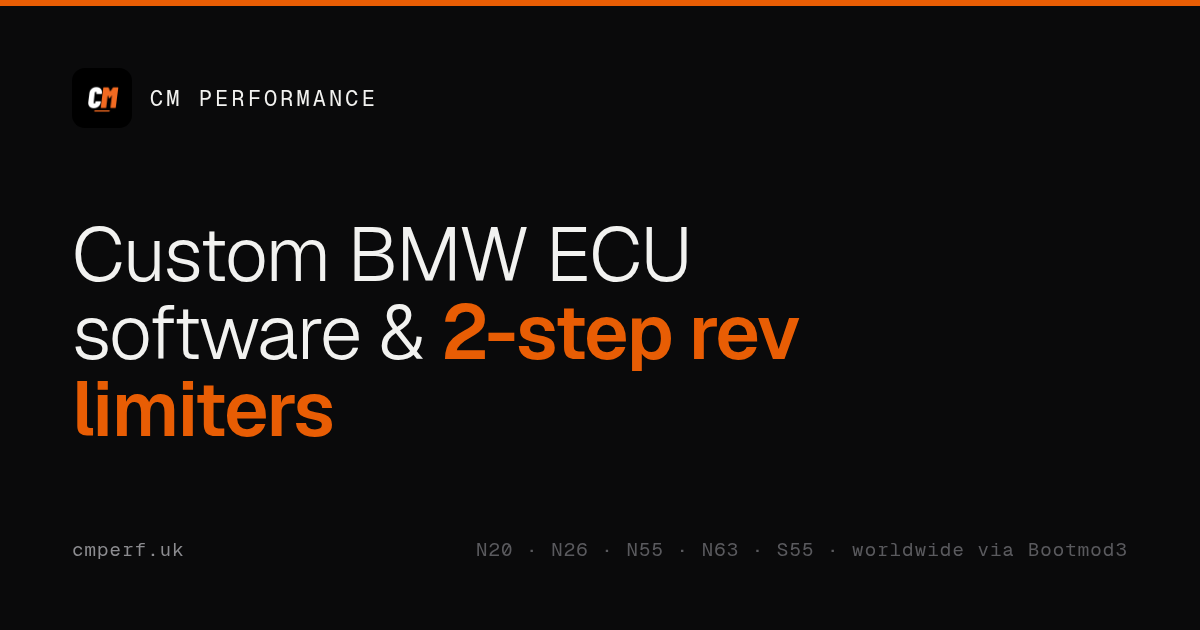
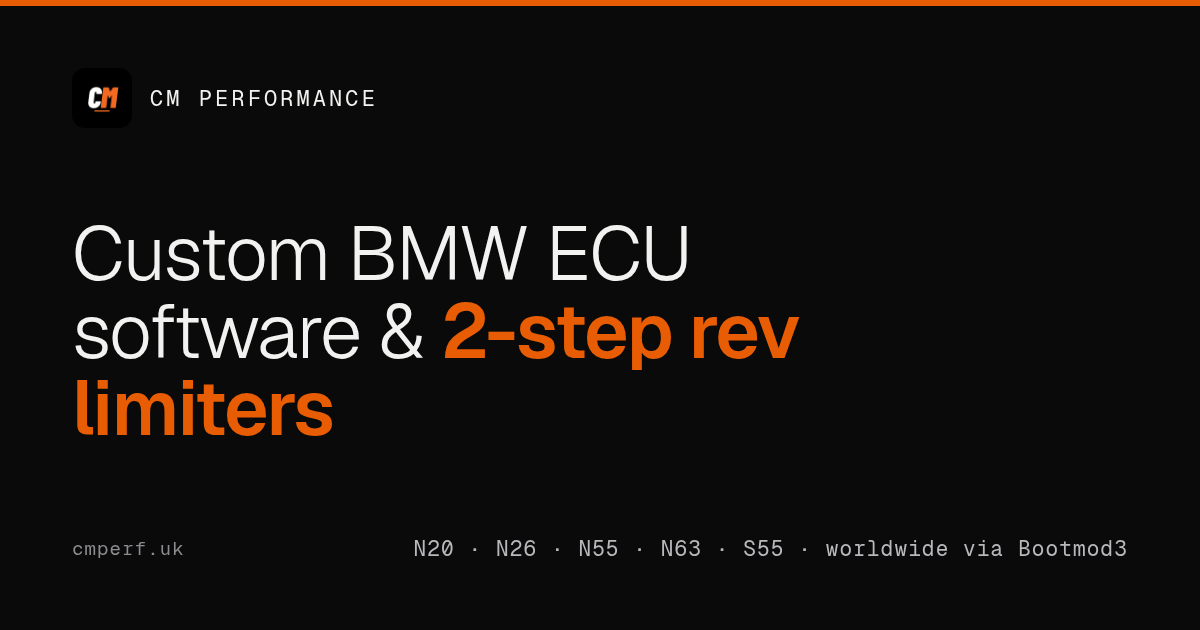
Marketing round (Astra): lead with the offer, proof via Instagram, convert
- Hero: buy-relevant spec line (engines, Bootmod3, from $200) and CTAs
  'Check my BMW' + 'Watch on Instagram'. Headline kept as chosen.
- Products: second card is now Custom ECU Software (real revenue), not the
  unfinished Performance Tracker (demoted to a small in-development note).
- Proof band linking to Instagram @cm.perf (real customer/proof videos),
  plus @cm.perf in contact and sameAs in JSON-LD.
- FAQ: added keep-tune/revert-to-stock and who-flashes-it/what-if answers;
  schema synced.
- Contact: 'Check compatibility and get a quote' with model+year required,
  Bootmod3-status select, softer brief, FormSubmit _next to a new
  thanks.html confirmation, 'reply within one business day'.
- Copy cleanups (no 'whole stack', no 'problem no one else has solved',
  B-series 'in development'). Title/description reworked around
  '2-step launch control & ECU tuning'. og image: Bootmod3 line enlarged.
- SEO migration: gallery + flink canonical/og/sitemap moved off the old
  github.io domain to cmperf.uk.

diff --git a/index.html b/index.html
@@ -3,8 +3,8 @@
 <head>
 <meta charset="utf-8" />
 <meta name="viewport" content="width=device-width, initial-scale=1.0" />
-<title>BMW ECU Development & 2-Step Rev Limiter | CM Performance</title>
-<meta name="description" content="Custom BMW ECU software and the 2-step secondary rev limiter: variable-RPM launch control on your M1/M2 buttons for N20, N26, N55, N63 and S55. Delivered worldwide through Bootmod3. UK-based BMW engineering." />
+<title>BMW 2-Step Launch Control & ECU Tuning | CM Performance</title>
+<meta name="description" content="BMW 2-step launch control and custom ECU software for N20, N26, N55, N63 and S55. Set your launch RPM with M1/M2 and adjust it on the move. Delivered worldwide via Bootmod3. Check compatibility and pricing." />
 <meta name="robots" content="index, follow" />
 <meta name="author" content="CM Performance" />
 <link rel="canonical" href="https://cmperf.uk/" />
@@ -14,15 +14,15 @@
 <link rel="apple-touch-icon" href="/apple-touch-icon.png" />
 <meta property="og:type" content="website" />
 <meta property="og:site_name" content="CM Performance" />
-<meta property="og:title" content="BMW ECU Development & 2-Step Rev Limiter | CM Performance" />
-<meta property="og:description" content="Custom BMW ECU software and the 2-step secondary rev limiter, for N20, N26, N55, N63 and S55. Delivered worldwide through Bootmod3." />
+<meta property="og:title" content="BMW 2-Step Launch Control & ECU Tuning | CM Performance" />
+<meta property="og:description" content="BMW 2-step launch control and custom ECU software for N20, N26, N55, N63 and S55. Delivered worldwide via Bootmod3." />
 <meta property="og:url" content="https://cmperf.uk/" />
 <meta property="og:image" content="https://cmperf.uk/og-cmperf.png" />
 <meta property="og:image:width" content="1200" />
 <meta property="og:image:height" content="630" />
 <meta name="twitter:card" content="summary_large_image" />
-<meta name="twitter:title" content="BMW ECU Development & 2-Step Rev Limiter | CM Performance" />
-<meta name="twitter:description" content="Custom BMW ECU software and the 2-step secondary rev limiter, delivered worldwide through Bootmod3." />
+<meta name="twitter:title" content="BMW 2-Step Launch Control & ECU Tuning | CM Performance" />
+<meta name="twitter:description" content="BMW 2-step launch control and custom ECU software, delivered worldwide via Bootmod3." />
 <meta name="twitter:image" content="https://cmperf.uk/og-cmperf.png" />
 <link rel="preconnect" href="https://fonts.googleapis.com" />
 <link rel="preconnect" href="https://fonts.gstatic.com" crossorigin />
@@ -113,6 +113,10 @@ section{padding:62px 0;border-bottom:1px solid var(--line)}
 .local-strip strong{color:var(--text);font-weight:400}
 .local-strip .btn{flex:none}
 
+.proof{display:flex;align-items:center;justify-content:space-between;gap:28px}
+.proof p{color:var(--dim);font-size:15px;max-width:58ch;margin-top:10px}
+.proof .btn{flex:none}
+@media (max-width:820px){.proof{flex-direction:column;align-items:flex-start;gap:18px}}
 .caps{border-top:1px solid var(--line)}
 .cap{display:grid;grid-template-columns:34px 220px 1fr;gap:24px;align-items:start;padding:22px 0;border-bottom:1px solid var(--line-2)}
 .cap .no{font-family:var(--mono);font-size:12px;color:var(--faint);padding-top:3px}
@@ -139,7 +143,8 @@ section{padding:62px 0;border-bottom:1px solid var(--line)}
 .cform label{display:flex;flex-direction:column;gap:7px;font-family:var(--mono);font-size:11px;letter-spacing:.1em;text-transform:uppercase;color:var(--dim)}
 .cform .opt{color:var(--faint);text-transform:none;letter-spacing:.02em}
 .cform .req{color:var(--accent)}
-.cform input,.cform textarea{font-family:var(--sans);font-size:16px;font-weight:300;color:var(--text);background:#0a0a0b;border:1px solid var(--line);border-radius:4px;padding:11px 12px;width:100%;resize:vertical}
+.cform input,.cform textarea,.cform select{font-family:var(--sans);font-size:16px;font-weight:300;color:var(--text);background:#0a0a0b;border:1px solid var(--line);border-radius:4px;padding:11px 12px;width:100%;resize:vertical}
+.cform select:focus{outline:none;border-color:var(--accent)}
 .cform input::placeholder,.cform textarea::placeholder{color:var(--faint)}
 .cform input:focus,.cform textarea:focus{outline:none;border-color:var(--accent)}
 .cform button{align-self:flex-start;cursor:pointer}
@@ -180,14 +185,14 @@ footer .copy{font-family:var(--mono);font-size:11px;color:var(--faint);width:100
 </style>
 <script type="application/ld+json">
 {"@context":"https://schema.org","@graph":[
-{"@type":"Organization","@id":"https://cmperf.uk/#org","name":"CM Performance","url":"https://cmperf.uk/","email":"contact@cmperf.uk","logo":"https://cmperf.uk/favicon-192.png","image":"https://cmperf.uk/og-cmperf.png","description":"UK-based BMW engineering: custom ECU software, the 2-step secondary rev limiter, diagnostics, retrofit and coding, and product development.","areaServed":"Worldwide","address":{"@type":"PostalAddress","addressCountry":"GB"}},
+{"@type":"Organization","@id":"https://cmperf.uk/#org","name":"CM Performance","url":"https://cmperf.uk/","email":"contact@cmperf.uk","logo":"https://cmperf.uk/favicon-192.png","image":"https://cmperf.uk/og-cmperf.png","description":"UK-based BMW engineering: custom ECU software, the 2-step secondary rev limiter, diagnostics, retrofit and coding, and product development.","areaServed":"Worldwide","address":{"@type":"PostalAddress","addressCountry":"GB"},"sameAs":["https://www.instagram.com/cm.perf/"]},
 {"@type":"WebSite","@id":"https://cmperf.uk/#site","url":"https://cmperf.uk/","name":"CM Performance","publisher":{"@id":"https://cmperf.uk/#org"}},
 {"@type":"Service","name":"BMW 2-Step Secondary Rev Limiter","serviceType":"Custom ECU software / BMW tuning","provider":{"@id":"https://cmperf.uk/#org"},"areaServed":"Worldwide","description":"Variable-RPM launch control on the M1/M2 buttons for BMW N20, N26, N55, N63 and S55, triggered by brake plus throttle. Delivered worldwide through Bootmod3.","offers":{"@type":"Offer","price":"200","priceCurrency":"USD","availability":"https://schema.org/InStock"}},
 {"@type":"FAQPage","mainEntity":[
 {"@type":"Question","name":"What is a 2-step secondary rev limiter?","acceptedAnswer":{"@type":"Answer","text":"A launch-control rev limit on your M1/M2 buttons. Hold the brake and throttle to hold a set RPM and build boost, then launch. It sits below your main redline as a secondary limit."}},
 {"@type":"Question","name":"Which BMW engines do you support?","acceptedAnswer":{"@type":"Answer","text":"N20, N26, N55, N63 and S55 are live now. B-series engines are in active development. If your engine is not listed, ask us."}},
 {"@type":"Question","name":"How is the 2-step delivered?","acceptedAnswer":{"@type":"Answer","text":"Worldwide through Bootmod3. Find us in the Bootmod3 tuner directory, or send an enquiry and we flash a map to your account. No shipping and no workshop visit."}},
-{"@type":"Question","name":"What do I need for it?","acceptedAnswer":{"@type":"Answer","text":"A Bootmod3 licence for your car and the usual flash hardware. It works with factory or aftermarket M-button wheels, using stock pedals only."}},
+{"@type":"Question","name":"What do I need for it?","acceptedAnswer":{"@type":"Answer","text":"A Bootmod3 licence for your car and the usual flash hardware. It works with factory or aftermarket M-button wheels, using stock pedals only."}},{"@type":"Question","name":"Can I keep my current tune, and go back to stock?","acceptedAnswer":{"@type":"Answer","text":"Bootmod3 keeps your stock map, so you can switch back any time. Whether we build on your current tune depends on your car and software."}},{"@type":"Question","name":"Who flashes it, and what if I get stuck?","acceptedAnswer":{"@type":"Answer","text":"You flash it yourself through Bootmod3. We supply the map and clear instructions and help you through it. If something is not right, we revise the map."}},
 {"@type":"Question","name":"What does it cost?","acceptedAnswer":{"@type":"Answer","text":"From 200 USD for a standard 2-step. Stage builds and bespoke ECU ROM work are quoted per car. Email contact@cmperf.uk."}}
 ]}
 ]}
@@ -224,15 +229,15 @@ footer .copy{font-family:var(--mono);font-size:11px;color:var(--faint);width:100
       <div>
         <span class="eyebrow">BMW diagnostics &middot; retrofits &middot; engineering</span>
         <h1 style="margin-top:18px">We build systems<br />that don't yet exist,<br />for <b class="accent">BMWs</b>.</h1>
-        <p>Custom ECU software and the 2-step secondary rev limiter, plus diagnostics, retrofits and product development. If it involves a BMW and a problem no one else has solved, that is the work we take.</p>
+        <p>Custom ECU software and the 2-step secondary rev limiter. Set your launch RPM with M1/M2 and adjust it on the move, delivered worldwide through Bootmod3. Diagnostics, retrofits and product development too.</p>
         <div class="specline">
-          <span>Chassis</span> E · F · G series
-          <span>Bus</span> CAN / CAN-FD
-          <span>Base</span> United Kingdom · worldwide
+          <span>Engines</span> N20 · N26 · N55 · N63 · S55
+          <span>Delivery</span> Bootmod3 · worldwide
+          <span>From</span> $200 USD
         </div>
         <div class="actions">
-          <a href="#products" class="btn btn-fill">View the 2-step</a>
-          <a href="#contact" class="link">Enquire &rarr;</a>
+          <a href="#contact" class="btn btn-fill">Check my BMW</a>
+          <a href="https://www.instagram.com/cm.perf/" class="link" target="_blank" rel="noopener">Watch on Instagram &#8599;</a>
         </div>
       </div>
       <div class="slideshow" id="twostep" role="group" aria-label="2-step secondary rev limiter">
@@ -257,7 +262,7 @@ footer .copy{font-family:var(--mono);font-size:11px;color:var(--faint);width:100
             <span class="k">Engine coverage</span>
             <div class="st">N20 · N26 · N55 · N63 · S55</div>
             <div class="cov">
-              <span>N20 ✓</span><span>N26 ✓</span><span>N55 ✓</span><span>N63 ✓</span><span>S55 ✓</span><span class="wip">B-series · in progress</span>
+              <span>N20 ✓</span><span>N26 ✓</span><span>N55 ✓</span><span>N63 ✓</span><span>S55 ✓</span><span class="wip">B-series · in development</span>
             </div>
           </article>
         </div>
@@ -287,21 +292,28 @@ footer .copy{font-family:var(--mono);font-size:11px;color:var(--faint);width:100
             <div>From <b>$200 USD</b></div>
           </div>
           <div class="buy">
-            <a href="#contact" class="btn btn-fill">Start a build</a>
+            <a href="#contact" class="btn btn-fill">Check my BMW</a>
           </div>
         </div>
         <div class="card">
-          <span class="status dev">○ In development</span>
-          <h3>Performance Tracker</h3>
-          <p>Vehicle telemetry for performance cars and rental fleets. Redline events, engine and coolant temperatures, driving-style analysis and trip reconstruction.</p>
+          <span class="status live">● Per-car · worldwide via Bootmod3</span>
+          <h3>Custom ECU Software</h3>
+          <p>Bespoke calibrations for your BMW: stage builds, fuelling and boost, burbles and pops, and 2-step tailored to your setup. We confirm what your car supports and the price before you pay.</p>
           <div class="specs">
-            <div>Target <b>Performance / fleet</b></div>
-            <div>Records <b>Redline · temps · trips</b></div>
-            <div>Link <b>CAN telemetry</b></div>
-            <div>Status <b>In development</b></div>
+            <div>Work <b>Stage · fuel · boost · ROM</b></div>
+            <div>Basis <b>Your car's software</b></div>
+            <div>Delivery <b>Bootmod3 · worldwide</b></div>
+            <div>Price <b>Quoted per car</b></div>
           </div>
-          <div class="buy"><a href="#contact" class="btn">Register interest</a></div>
+          <div class="buy"><a href="#contact" class="btn btn-fill">Discuss my setup</a></div>
         </div>
+      </div>
+      <div class="local-strip">
+        <div>
+          <span class="status dev">○ In development</span>
+          <strong>Performance Tracker</strong> is our upcoming BMW telemetry unit: redline events, temperatures, driving-style analysis and trip reconstruction.
+        </div>
+        <a href="#contact" class="btn">Register interest</a>
       </div>
       <div class="local-strip">
         <div>
@@ -310,6 +322,16 @@ footer .copy{font-family:var(--mono);font-size:11px;color:var(--faint);width:100
         </div>
         <a href="flink/" class="btn">FlameLink site</a>
       </div>
+    </div>
+  </section>
+
+  <section id="proof">
+    <div class="wrap proof">
+      <div>
+        <span class="eyebrow">Proof</span>
+        <p>Customer cars, launches and flashes are on our Instagram. See the 2-step and custom builds running on real BMWs, then tell us about yours.</p>
+      </div>
+      <a href="https://www.instagram.com/cm.perf/" class="btn btn-fill" target="_blank" rel="noopener">@cm.perf on Instagram &#8599;</a>
     </div>
   </section>
 
@@ -338,7 +360,7 @@ footer .copy{font-family:var(--mono);font-size:11px;color:var(--faint);width:100
         <div class="cap">
           <span class="no">04</span>
           <h3>Product Development</h3>
-          <p>CAN controllers, firmware, mobile apps and PCBs. The whole stack, built in-house. FlameLink began as a CAN project and grew into a product line.
+          <p>CAN controllers, firmware, mobile apps and PCBs, built in-house. FlameLink began as a CAN project and grew into a product line.
           <span class="det">Hardware · firmware · app · PCB</span></p>
         </div>
       </div>
@@ -355,19 +377,27 @@ footer .copy{font-family:var(--mono);font-size:11px;color:var(--faint);width:100
         </details>
         <details>
           <summary>Which BMW engines do you support?</summary>
-          <p class="a">N20, N26, N55, N63 and S55 are live now. B-series engines are in active development, advancing quickly. If your engine is not listed, ask us.</p>
+          <p class="a">N20, N26, N55, N63 and S55 are live now. B-series engines are in development. Tell us your model, year and current software and we confirm support before you pay.</p>
         </details>
         <details>
           <summary>How is it delivered?</summary>
-          <p class="a">Worldwide through Bootmod3. Find us in the Bootmod3 tuner directory, or send an enquiry and we flash a map to your account. No shipping, no workshop visit.</p>
+          <p class="a">Worldwide through Bootmod3. Send an enquiry, we confirm your car and supply the map to your Bootmod3 account, and you flash it yourself at home. No shipping, no workshop visit.</p>
         </details>
         <details>
           <summary>What do I need for it?</summary>
-          <p class="a">A Bootmod3 licence for your car and the usual flash hardware. It works with factory or aftermarket M-button wheels, using stock pedals only.</p>
+          <p class="a">A Bootmod3 licence for your car and the usual Bootmod3 flashing setup. It works with factory or aftermarket M-button wheels, using stock pedals only.</p>
+        </details>
+        <details>
+          <summary>Can I keep my current tune, and go back to stock?</summary>
+          <p class="a">Bootmod3 keeps your stock map, so you can switch back any time. Whether we build on your current tune depends on your car and software. Tell us what you run and we confirm.</p>
+        </details>
+        <details>
+          <summary>Who flashes it, and what if I get stuck?</summary>
+          <p class="a">You flash it yourself through Bootmod3. We supply the map and clear instructions, and we help you through it. If something is not right, we revise the map.</p>
         </details>
         <details>
           <summary>What does it cost?</summary>
-          <p class="a">From $200 USD for a standard 2-step. Stage builds and bespoke ECU ROM work are quoted per car. Email contact@cmperf.uk.</p>
+          <p class="a">From $200 USD for a standard 2-step, confirmed for your exact car before you pay. Stage builds and bespoke ECU ROM work are quoted per car. Email contact@cmperf.uk.</p>
         </details>
       </div>
     </div>
@@ -376,12 +406,13 @@ footer .copy{font-family:var(--mono);font-size:11px;color:var(--faint);width:100
   <section id="contact" class="contact">
     <div class="wrap">
       <div>
-        <span class="eyebrow">Contact</span>
-        <h2 style="margin-top:16px">Start a build,<br />or ask us a hard question.</h2>
-        <p>Tell us the car and what you want. 2-step and ECU work, retrofits, CAN&nbsp;bus projects. We answer every enquiry.</p>
+        <span class="eyebrow">Check my BMW</span>
+        <h2 style="margin-top:16px">Check compatibility<br />and get a quote.</h2>
+        <p>Tell us your BMW model and year. We confirm what your car supports, what it needs and the price, before you pay.</p>
         <a href="mailto:contact@cmperf.uk" class="mail">contact@cmperf.uk &rarr;</a>
         <div class="meta-list" style="margin-top:28px">
-          <div><span class="k">Bootmod3</span> Search &ldquo;CM Performance&rdquo; in the tuner directory</div>
+          <div><span class="k">Instagram</span> <a href="https://www.instagram.com/cm.perf/" class="accent" target="_blank" rel="noopener">@cm.perf</a> · proof videos &amp; DMs</div>
+          <div><span class="k">Bootmod3</span> Find &ldquo;CM Performance&rdquo; in the tuner directory</div>
           <div><span class="k">Location</span> United Kingdom · worldwide</div>
           <div><span class="k">Hours</span> Mon-Fri · 10:00-18:00 UK time</div>
         </div>
@@ -390,13 +421,16 @@ footer .copy{font-family:var(--mono);font-size:11px;color:var(--faint);width:100
         <input type="hidden" name="_subject" value="New enquiry via cmperf.uk" />
         <input type="hidden" name="_template" value="table" />
         <input type="hidden" name="_captcha" value="true" />
+        <input type="hidden" name="_next" value="https://cmperf.uk/thanks.html" />
         <input type="text" name="_honey" style="display:none" tabindex="-1" autocomplete="off" aria-hidden="true" />
         <label>Name <span class="req">*</span><input type="text" name="name" required autocomplete="name" /></label>
         <label>Email <span class="req">*</span><input type="email" name="email" required autocomplete="email" /></label>
-        <label>Car <span class="opt">chassis · engine (optional)</span><input type="text" name="car" placeholder="e.g. F32 428i · N20" /></label>
-        <label>What do you need? <span class="req">*</span><textarea name="message" rows="4" required placeholder="2-step RPM, stage, retrofit, project"></textarea></label>
-        <button type="submit" class="btn btn-fill">Send enquiry</button>
-        <p class="cform-note">We reply from contact@cmperf.uk. Sent via FormSubmit; your details are used only to answer your enquiry.</p>
+        <label>BMW model &amp; year <span class="req">*</span><input type="text" name="car" required placeholder="e.g. 2015 F32 428i" /></label>
+        <label>Engine <span class="opt">if you know it (optional)</span><input type="text" name="engine" placeholder="e.g. N20" /></label>
+        <label>Bootmod3 licence?<select name="bootmod3"><option>Not sure</option><option>Yes, licensed</option><option>Not yet</option></select></label>
+        <label>What are you after? <span class="req">*</span><textarea name="message" rows="3" required placeholder="2-step, stage build, retrofit, diagnostics"></textarea></label>
+        <button type="submit" class="btn btn-fill">Check my BMW</button>
+        <p class="cform-note">We reply from contact@cmperf.uk, usually within one business day. Sent via FormSubmit; your details are used only to answer your enquiry.</p>
       </form>
     </div>
   </section>

diff --git a/flink/index.html b/flink/index.html
@@ -5,22 +5,22 @@
 <meta name="viewport" content="width=device-width, initial-scale=1.0" />
 <title>FlameLink — exhaust flame kit. Real flames, zero engine mods | CM Performance</title>
 <meta name="description" content="FlameLink is a standalone exhaust flame kit for 12V cars: real flames with no ECU flash, tune or engine calibration changes. App-tuned, from $499. FlameLink Pro adds automatic lift-off flames for BMW F & G Series. Free to reserve." />
-<link rel="canonical" href="https://cm-perf.github.io/flink/" />
+<link rel="canonical" href="https://cmperf.uk/flink/" />
 
 <!-- Open Graph / social previews (og-image.png is generated, 1200×630) -->
 <meta property="og:type" content="website" />
-<meta property="og:url" content="https://cm-perf.github.io/flink/" />
+<meta property="og:url" content="https://cmperf.uk/flink/" />
 <meta property="og:site_name" content="CM Performance" />
 <meta property="og:title" content="Your car. Breathing fire. 🔥" />
 <meta property="og:description" content="A standalone exhaust flame system from $499. No ECU flash or engine calibration changes. Free to reserve." />
-<meta property="og:image" content="https://cm-perf.github.io/flink/og-image.png" />
+<meta property="og:image" content="https://cmperf.uk/flink/og-image.png" />
 <meta property="og:image:width" content="1200" />
 <meta property="og:image:height" content="630" />
 <meta property="og:image:alt" content="FlameLink — a standalone exhaust flame system for 12V cars." />
 <meta name="twitter:card" content="summary_large_image" />
 <meta name="twitter:title" content="Your car. Breathing fire. 🔥" />
 <meta name="twitter:description" content="A standalone exhaust flame system from $499. No ECU flash or engine calibration changes. BMW Pro adds automatic lift-off flames." />
-<meta name="twitter:image" content="https://cm-perf.github.io/flink/og-image.png" />
+<meta name="twitter:image" content="https://cmperf.uk/flink/og-image.png" />
 <meta name="theme-color" content="#000000" />
 <link rel="icon" type="image/svg+xml" href="favicon.svg" />
 <link rel="apple-touch-icon" href="favicon.svg" />
@@ -35,8 +35,8 @@
   "name": "FlameLink Exhaust Flame Kit",
   "brand": { "@type": "Brand", "name": "CM Performance" },
   "description": "Standalone exhaust flame kit for 12V cars. Real flames — no ECU flash, no tune and no engine calibration changes. Tuned from your phone. FlameLink ($499) fires from a dash-mounted button; FlameLink Pro ($650) adds automatic lift-off flames for BMW F & G Series.",
-  "image": "https://cm-perf.github.io/flink/og-image.png",
-  "url": "https://cm-perf.github.io/flink/",
+  "image": "https://cmperf.uk/flink/og-image.png",
+  "url": "https://cmperf.uk/flink/",
   "category": "Vehicle Exhaust Accessories",
   "offers": {
     "@type": "AggregateOffer",
@@ -45,7 +45,7 @@
     "offerCount": "2",
     "priceCurrency": "USD",
     "availability": "https://schema.org/PreOrder",
-    "url": "https://cm-perf.github.io/flink/#order"
+    "url": "https://cmperf.uk/flink/#order"
   }
 }
 </script>
@@ -54,7 +54,7 @@
   "@context": "https://schema.org",
   "@type": "Organization",
   "name": "CM Performance",
-  "url": "https://cm-perf.github.io/flink/",
+  "url": "https://cmperf.uk/flink/",
   "email": "cmperformancegh@gmail.com",
   "description": "Automotive engineering team building FlameLink, a standalone exhaust flame kit — real exhaust flames with no ECU flash and no engine modifications."
 }

diff --git a/thanks.html b/thanks.html
@@ -1,0 +1,38 @@
+<!doctype html>
+<html lang="en">
+<head>
+<meta charset="utf-8" />
+<meta name="viewport" content="width=device-width, initial-scale=1.0" />
+<title>Enquiry received | CM Performance</title>
+<meta name="robots" content="noindex" />
+<link rel="icon" type="image/png" sizes="192x192" href="/favicon-192.png" />
+<link rel="apple-touch-icon" href="/apple-touch-icon.png" />
+<link href="https://fonts.googleapis.com/css2?family=Geist:wght@100..900&family=Geist+Mono:wght@300..600&display=swap" rel="stylesheet" media="print" onload="this.media='all'" />
+<style>
+*{margin:0;padding:0;box-sizing:border-box}
+body{background:#0a0a0b;color:#f2f2f0;font-family:'Geist',system-ui,sans-serif;font-weight:300;min-height:100vh;display:flex;align-items:center;justify-content:center;padding:28px;text-align:center}
+.mono{font-family:'Geist Mono',ui-monospace,monospace}
+.box{max-width:520px}
+.mark{width:52px;height:52px;border-radius:12px;margin:0 auto 22px}
+.eyebrow{font-family:'Geist Mono',monospace;font-size:11px;letter-spacing:.18em;text-transform:uppercase;color:#e85d04}
+h1{font-size:clamp(28px,5vw,40px);font-weight:300;letter-spacing:-.01em;margin:14px 0 16px;line-height:1.1}
+p{color:#8c8c90;font-size:16px;max-width:42ch;margin:0 auto 10px}
+.actions{margin-top:28px;display:flex;gap:16px;justify-content:center;flex-wrap:wrap}
+.btn{font-family:'Geist Mono',monospace;font-size:12px;letter-spacing:.06em;text-transform:uppercase;padding:11px 18px;border:1px solid rgba(255,255,255,.12);border-radius:4px;color:#f2f2f0;text-decoration:none}
+.btn.fill{background:#e85d04;border-color:#e85d04;color:#0a0a0b;font-weight:500}
+</style>
+</head>
+<body>
+  <div class="box">
+    <img class="mark" src="/favicon-192.png" alt="CM Performance" />
+    <span class="eyebrow">Enquiry received</span>
+    <h1>Thanks, we've got it.</h1>
+    <p>We'll check what your BMW supports and reply from contact@cmperf.uk, usually within one business day.</p>
+    <p class="mono" style="color:#808086;font-size:13px;margin-top:14px">Meanwhile, see builds and launches on Instagram.</p>
+    <div class="actions">
+      <a class="btn fill" href="https://www.instagram.com/cm.perf/" target="_blank" rel="noopener">@cm.perf &#8599;</a>
+      <a class="btn" href="/">Back to site</a>
+    </div>
+  </div>
+</body>
+</html>

diff --git a/gallery.html b/gallery.html
@@ -5,9 +5,9 @@
 <meta name="viewport" content="width=device-width, initial-scale=1.0" />
 <title>Gallery, CM Performance</title>
 <meta name="description" content="Flame photography and 4K wallpapers from CM Performance." />
-<link rel="canonical" href="https://cm-perf.github.io/gallery.html" />
+<link rel="canonical" href="https://cmperf.uk/gallery.html" />
 <meta property="og:type" content="website" />
-<meta property="og:url" content="https://cm-perf.github.io/gallery.html" />
+<meta property="og:url" content="https://cmperf.uk/gallery.html" />
 <meta property="og:site_name" content="CM Performance" />
 <meta property="og:title" content="Gallery, CM Performance" />
 <meta property="og:description" content="Flame photography and 4K wallpapers from CM Performance." />

diff --git a/flink/safety.html b/flink/safety.html
@@ -4,7 +4,7 @@
 <meta charset="UTF-8" />
 <meta name="viewport" content="width=device-width, initial-scale=1.0" />
 <title>Safety, Disclaimer &amp; Terms — CM Performance</title>
-<link rel="canonical" href="https://cm-perf.github.io/flink/safety.html" />
+<link rel="canonical" href="https://cmperf.uk/flink/safety.html" />
 <link rel="preconnect" href="https://fonts.googleapis.com" />
 <link rel="preconnect" href="https://fonts.gstatic.com" crossorigin />
 <link href="https://fonts.googleapis.com/css2?family=Inter:wght@400;500;600;700;800&display=swap" rel="stylesheet" />

diff --git a/flink/privacy.html b/flink/privacy.html
@@ -4,7 +4,7 @@
 <meta charset="UTF-8" />
 <meta name="viewport" content="width=device-width, initial-scale=1.0" />
 <title>Privacy Policy — CM Performance</title>
-<link rel="canonical" href="https://cm-perf.github.io/flink/privacy.html" />
+<link rel="canonical" href="https://cmperf.uk/flink/privacy.html" />
 <link rel="preconnect" href="https://fonts.googleapis.com" />
 <link rel="preconnect" href="https://fonts.gstatic.com" crossorigin />
 <link href="https://fonts.googleapis.com/css2?family=Inter:wght@400;500;600;700;800&display=swap" rel="stylesheet" />
